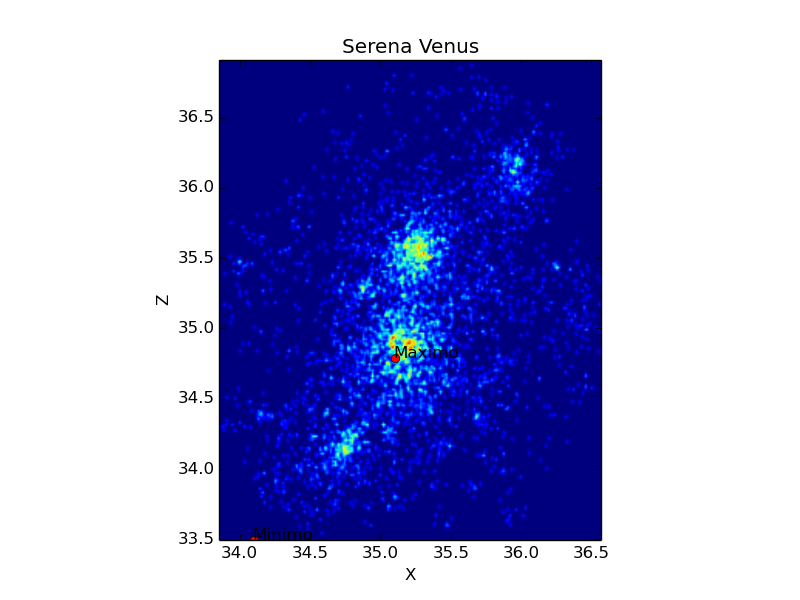
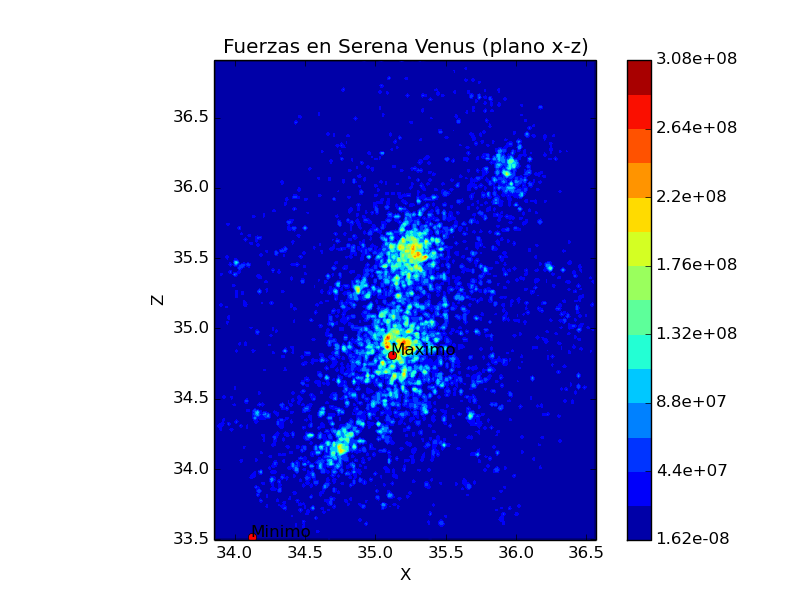
Se añaden cambios finales

diff --git a/CM20151_HW5_Jesus_Cifuentes/Punto_1/graph.py b/CM20151_HW5_Jesus_Cifuentes/Punto_1/graph.py
@@ -49,17 +49,35 @@ maxy = 36.650640000000003
 minz = 33.495959999999997
 maxz = 36.909080000000003
 
-#Da la posicision en 3D del elemento senalado en la matriz F2 de fuerzas
+#Se dan los deltas en cada eje
+l0 = maxx-minx   
+delta0 = l0/part     
+l1 = maxy-miny   
+delta1 = l1/part
+l2 = maxz-minz   
+delta2 = l2/part 
+ 
+
+#Se da la posicion de los centros de las casillas y se guardan en a
+a = np.zeros((3, part))
+a[0]= np.linspace(minx+delta0/2,maxx-delta0/2,part)
+a[1]= np.linspace(miny+delta1/2,maxy-delta1/2,part)
+a[2]= np.linspace(minz+delta2/2,maxz-delta2/2,part)
+
+
+
+
+#Da la posicision en 3D del elemento con valor num en la matriz F2 de fuerzas
 def darPosicion(num):
-    for i in range(0,part-2):
-        for j in range(0,part-2):
-            for k in range(0,part-2):
-                if F2[i,j,k] == num:
-                    #Se transforma a nuestras coordenadas
-                    i1 = i*(maxx-minx)/part + minx
-                    j1 = j*(maxy-miny)/part + miny
-                    k1 = k*(maxz-minz)/part + minz
-                    return [i1,j1,k1]
+#Se obtiene la posicion de num
+    m1 = np.where(F2==num)
+    Min = []
+#Se convierte la posicion a nuestras coordenadas
+    Min.append( m1[0]*delta0 + a[0][1])
+    Min.append( m1[1]*delta1 + a[1][1])
+    Min.append( m1[2]*delta2 + a[2][1])
+    return (map(float, Min))       
+            
                      
 mi = darPosicion(mini)           
 maxi = darPosicion(Max)
@@ -73,14 +91,15 @@ F12 = F2[:,0,:]
 for k in range(1, part-2):
     F12 = F12 + F2[:,k,:]
 
-#Da la posicision en 3D del elemento senalado en la matriz F12 de fuerzas proyectadas al plano x-z
+#Da la posicision en 3D del elemento con valor num en la matriz F12 de fuerzas proyectadas al plano x-z
 def darPosicion2(num):
-    for i in range(0,part-2):
-        for j in range(0,part-2):
-            if F12[i,j] == num:
-                i1 = i*(maxx-minx)/part + minx
-                j1 = j*(maxz-minz)/part + minz
-                return [i1,j1]
+#Se obtiene la posicion de num
+    m1 = np.where(F12==num)
+    Min = []
+#Se convierte la posicion a nuestras coordenadas
+    Min.append( m1[0]*delta0 + a[0][1])
+    Min.append( m1[1]*delta2 + a[2][1])
+    return (map(float, Min)) 
 
 
 mini = F12.min()
@@ -93,13 +112,29 @@ maxi2 = darPosicion2(Max)
 print "Cuando proyectamos al plano x-z el punto de minima fuerza es " + repr(mi2)
 print "Y el punto de maxima fuerza es " + repr(maxi2)   
 
+#Se encuentra la posicion de los puntos de minima y maxima fuerza en el plano x-z utilizando la funcion darPosicion2
+mi2 = darPosicion2(mini)           
+maxi2 = darPosicion2(Max)   
+
+
+#Se anaden fig y axs 
+fig, axs = plt.subplots(1,1)
+
 #Se grafican los puntos de minima y maxima fuerza
-plt.plot([mi2[0]], [mi2[1]], 'ro')
-plt.text(mi2[0],mi2[1],'Minimo')
+axs.plot([mi2[0]], [mi2[1]], 'ro')
+axs.text(mi2[0],mi2[1],'Minimo')
+axs.plot([maxi2[0]], [maxi2[1]], 'ro')
+axs.text(maxi2[0],maxi2[1],'Maximo')
 
+#Debido a la forma de la funcion contourf es necesario trasponer la matriz
+F12 = F12.transpose()
+#Se define el numero de niveles que va a tener el contorno. Para nuestro caso elegimos 15
+levels = np.linspace(mini, Max, 15)
 
-plt.plot([maxi2[0]], [maxi2[1]], 'ro')
-plt.text(maxi2[0],maxi2[1],'Maximo')
+#Se hace el mapeo por el contorno dado
+cs = axs.contourf(a[0][1:-1], a[2][1:-1], F12, levels=levels)
+#Se anade barra de color
+fig.colorbar(cs, ax=axs, format="%.3g")
 
 #Se grafica la matriz F12 de fuerzas proyectadas al plano x-z. Note que el resultado es muy parecido a la imagen dada, fue por eso que se escogio este plano
 #Se esta extendiendo entre los valores  minimos y maximos en x y en z en el archivo de ipython que  correponden justamente a los valores minimos y maximos de la posicion
